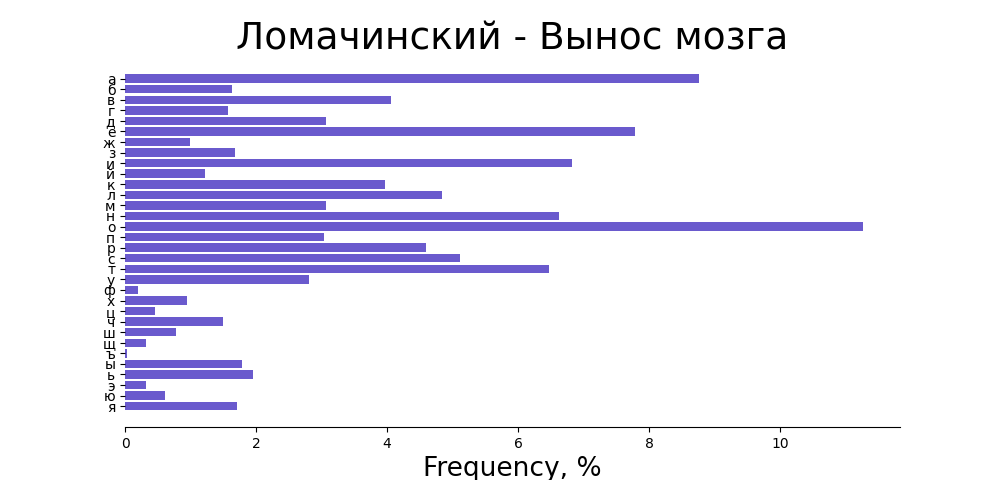
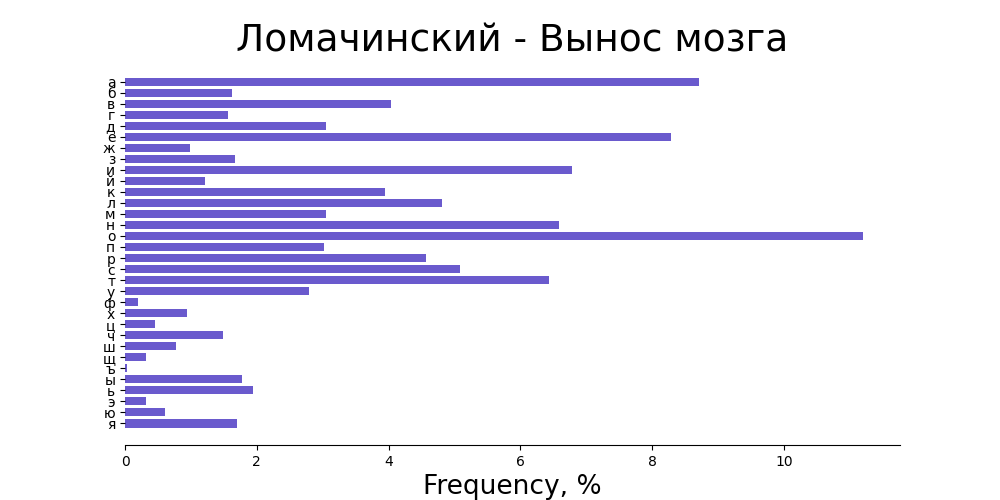
Added processing logic to 'ё' letter. Updated description

diff --git a/src/main/java/ua/nure/bulhakov/processing/FileProcessor.java b/src/main/java/ua/nure/bulhakov/processing/FileProcessor.java
@@ -24,8 +24,10 @@ public class FileProcessor implements Callable<Map<Character, BigDecimal>> {
             int read = fileReader.read();
             while (read != -1) {
                 char character = Character.toLowerCase((char) read);
-                if (character >= 1072 && character < 1105) {
+                if (character >= 1072 && character < 1104) {
                     addToMap(character);
+                } else if (character == 1105) {
+                    addToMap('е');
                 }
                 read = fileReader.read();
             }

diff --git a/src/python/diagrams.py b/src/python/diagrams.py
@@ -7,7 +7,7 @@ import seaborn as sns
 def draw_diagram(statistics, target_directory, file_name):
     display_data = preprocess_statistics(statistics)
 
-    plt.figure(figsize=(10, 4.8))
+    plt.figure(figsize=(10, 5))
     plt.barh(display_data['letters'], display_data['frequencies'], color='slateblue')
     plt.title(file_name, fontsize=27)
     plt.xlabel('Frequency, %', fontsize=19)

diff --git a/README.md b/README.md
@@ -22,6 +22,10 @@
 2. Дещо збільшилася доля шиплячих - 'ш', 'щ'
 3. Порівняно з іншими, значно виросло застосування літери 'р'. Це може бути пов'язано окрім іншого з новими літературними підходами, для захоплення читачів ("Вдруг", "Современный", "Броситься", "Ракеты", "Смерть")
 
+**Примітка**
+
+Щодо застосування літери 'ё' - навіть у сучасному видавництві її досі можуть заміняти літерою 'е'. Це призводить до недосконалості даних і виникненню труднощів, пов'язаних з обрахунком її частоти. Інколи цю літеру застосовують тільки для власних імен, наприклад: "Так Алёна и сказала: ... тихий крик еще висит в воздухе". Під час створення словників даних літера 'ё' була замінена літерою 'е' для усіх випадків.
+
 **Про автора**
 
 Студент групи ІПЗм-21-1
